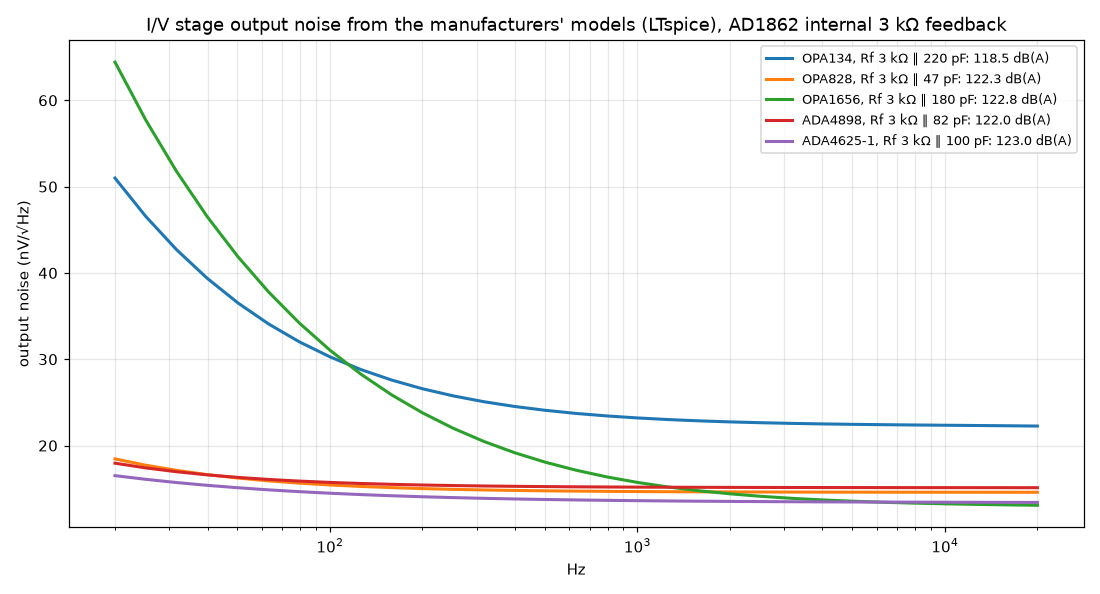
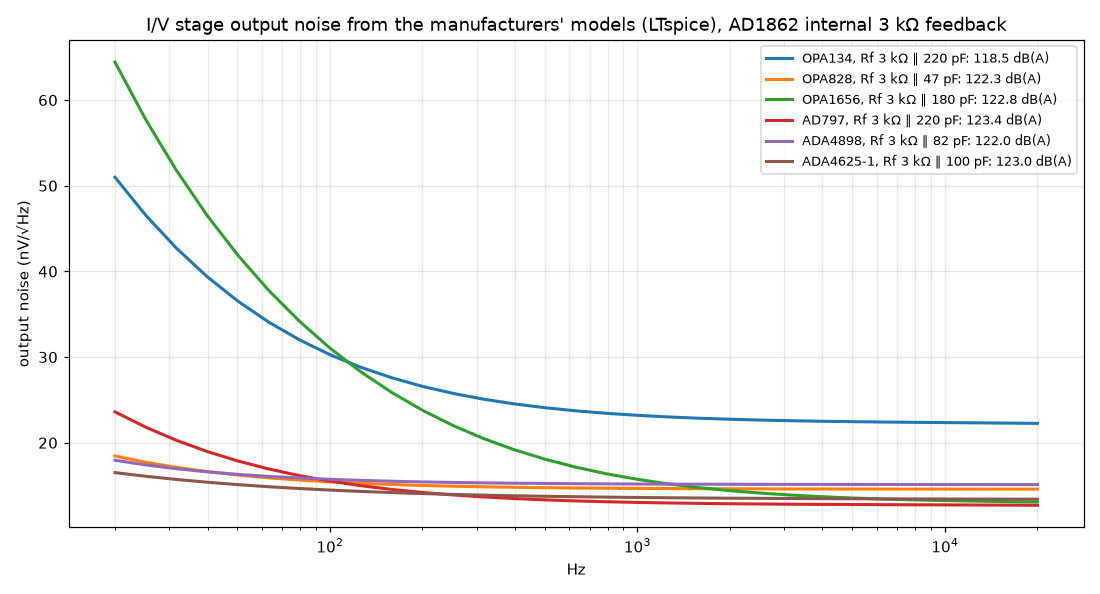
Add the AD797's own model to the LTspice op-amp results
ADI's 1992 AD797 macro model replaces the ADA4898 stand-in: it slews
with 47 pF like the OPA134, and with 220 pF its phase margin drops to
43-44 degrees while the error stays near -100 dBFS. Both languages.

diff --git a/ru/index.html b/ru/index.html
@@ -205,7 +205,7 @@ footer { margin-top: 56px; padding-top: 16px; border-top: 1px solid var(--rule);
       <p class="src">моделирование (2D-решатель поля + ngspice) · без новых деталей</p></div></li>
     <li><div><div class="t">Последние 4 дБ шума: OPA828 со встроенным резистором обратной связи AD1862 на 3 кОм</div>
       <p>Соедините вывод 10 AD1862 (RF, сейчас не подключён) с выходом ОУ и уберите R8 и R9. Так OPA828 даёт 122 дБ(A) против 116 дБ(A) у OPA134 с 1,4 кОм, а выход становится 2,1 В скз. Он выпускается только в SOIC или VSSOP, поэтому в DIP-панельку нужен переходник. Альтернативы: ADA4625-1 (тоже SOIC), который по модели ADI не уступает OPA828; OPA1611 со 150 пФ для минимального шума; или OPA627 с 82 пФ, который встаёт прямо в панельку. Оставьте по одному одиночному ОУ на канал и 47 пФ, если ОУ не упирается в скорость нарастания.</p>
-      <p class="src">моделирование (ngspice и LTspice; модели производителей для восьми ОУ)</p></div></li>
+      <p class="src">моделирование (ngspice и LTspice; модели производителей для девяти ОУ)</p></div></li>
     <li><div><div class="t">Перетактировать LE у ЦАП от малоджиттерного аудиогенератора</div>
       <p>Подайте аудиогенератор 45,1584 или 49,152 МГц (или вдвое ниже) на GPIO20 (GPIN0, до 50 МГц) и синхронизируйте от него PIO: либо clk_sys от этого входа, либо PIO ждёт его фронтов. Поставьте рядом с ЦАП сдвоенный D-триггер (класса 74LVC74), тактируемый тем же генератором, чтобы каждый фронт LE брался от генератора, а не от PLL и выходов Pico.</p>
       <p>Каждая половина триггера ведёт свой ЦАП по короткой трассе, что заодно убирает Т-разветвление. При джиттере генератора около 2 пс ошибка момента выборки остаётся ниже −135 dBFS даже для полномасштабного тона 20 кГц.</p>
@@ -238,7 +238,7 @@ footer { margin-top: 56px; padding-top: 16px; border-top: 1px solid var(--rule);
       <li><b>Схемотехническая модель:</b> модели CLK и LE на линиях передачи в ngspice для перебора параметров; модель PDN с измеренными расстояниями от конденсаторов до выводов.</li>
       <li><b>Тактирование выборок:</b> модель делителя PIO RP2040 (даташит §3.5.5) и ограничений PLL (§2.18) со спектром выхода ЦАП для каждой схемы тактирования.</li>
       <li><b>Каскад I/V и ОУ:</b> модели каскада AD1862 + ОУ в ngspice (устойчивость, шум, ограничение скорости нарастания на ступеньках) для восьми ОУ, с перекрёстной проверкой собственными PSpice-моделями TI для шести из них.</li>
-      <li><b>LTspice:</b> LTspice 17 в пакетном режиме для моделей производителей, с которыми не справляется ngspice: OPA1656 от TI, ADA4898 и ADA4625-1 от ADI, шум ОУ из самих моделей и модели стабилизаторов ADI (LT3045, LT3094, LT1963A, LT1964, LT3015, LT317A). На тех же схемах он повторяет результаты ngspice по запасу по фазе, ступеньке и ограничению скорости нарастания с точностью до 0,6 дБ.</li>
+      <li><b>LTspice:</b> LTspice 17 в пакетном режиме для моделей производителей, с которыми не справляется ngspice: OPA1656 от TI, AD797, ADA4898 и ADA4625-1 от ADI, шум ОУ из самих моделей и модели стабилизаторов ADI (LT3045, LT3094, LT1963A, LT1964, LT3015, LT317A). На тех же схемах он повторяет результаты ngspice по запасу по фазе, ступеньке и ограничению скорости нарастания с точностью до 0,6 дБ.</li>
       <li><b>Разводка шины:</b> 2D-решатель поля для связанных трасс (одиночная трасса: 67,9 Ом, ε<sub>eff</sub> 3,13) и модели связанных линий и топологий в ngspice, сверенные с полноволновым расчётом платы.</li>
       <li><b>Падение напряжения на земле:</b> резистивный решатель на растеризованной заливке In1 + In2, связанной через каждый земляной via и ствол вывода.</li>
     </ul>
@@ -437,31 +437,33 @@ footer { margin-top: 56px; padding-top: 16px; border-top: 1px solid var(--rule);
       <tr><td>OPA1656</td><td>КМОП</td><td class="n">180 пФ</td><td class="n">119,4 / 122,0</td><td class="n">−106 → −120</td><td class="n">−97 → −117 (LTspice)</td><td>нет</td></tr>
       <tr><td>LM4562</td><td>биполярный</td><td class="n">220 пФ</td><td class="n">120,9 / 122,9</td><td class="n">−100 → −117</td><td class="n">модели TI нет</td><td>только сдвоенный</td></tr>
       <tr class="good"><td>OPA1611 / OPA1612</td><td>биполярный</td><td class="n">150 пФ</td><td class="n">122,2 / 123,7</td><td class="n">−108 → −121</td><td class="n">−137 → −123</td><td>нет (SOIC)</td></tr>
-      <tr><td>AD797</td><td>биполярный</td><td class="n">220 пФ</td><td class="n">122,1 / 123,5</td><td class="n">−103 → −120</td><td class="n">ADA4898: −119 → −108</td><td>да</td></tr>
+      <tr><td>AD797</td><td>биполярный</td><td class="n">220 пФ</td><td class="n">122,1 / 123,5</td><td class="n">−103 → −120</td><td class="n">−91 → −104 (LTspice)</td><td>да</td></tr>
     </tbody>
   </table></div>
   <p class="col note">С/Ш — со взвешиванием A относительно полной шкалы; у самого AD1862 около 120 дБ. Ошибка — в dBFS для тона −1 dBFS. Значения модели TI ниже примерно −120 dBFS — это предел метода и означают «измеримого ограничения нет». Корпуса указаны по каталогам производителей; проверьте наличие перед заказом.</p>
-  <p class="col"><b>Рекомендация: OPA828 со встроенным резистором 3 кОм.</b> Это единственный ОУ, который обе модели показывают чистым с текущими 47 пФ. Он даёт 122 дБ(A), а входной ток его полевого входа пренебрежимо мал. OPA1611 примерно на 1,5 дБ тише, но требует 150 пФ. OPA627 встаёт прямо в DIP-панельку ценой примерно 1,5 дБ шума. OPA134 остаётся пригодным с 220 пФ. ADA4625-1 — равноценная замена OPA828 (см. LTspice ниже). Я бы не брал OPA1641 (упирается в скорость нарастания, как OPA134), LM4562 (сдвоенный), OPA1656 (упирается в скорость нарастания при 47 пФ и сильнее всех искажает даже со 180 пФ) и AD797 (нет модели производителя для проверки; его замена в модели, ADA4898, искажает больше полевых ОУ).</p>
+  <p class="col"><b>Рекомендация: OPA828 со встроенным резистором 3 кОм.</b> Это единственный ОУ, который обе модели показывают чистым с текущими 47 пФ. Он даёт 122 дБ(A), а входной ток его полевого входа пренебрежимо мал. OPA1611 примерно на 1,5 дБ тише, но требует 150 пФ. OPA627 встаёт прямо в DIP-панельку ценой примерно 1,5 дБ шума. OPA134 остаётся пригодным с 220 пФ. ADA4625-1 — равноценная замена OPA828 (см. LTspice ниже). Я бы не брал OPA1641 (упирается в скорость нарастания, как OPA134), LM4562 (сдвоенный), OPA1656 (упирается в скорость нарастания при 47 пФ и сильнее всех искажает даже со 180 пФ) и AD797 (собственная модель ADI при 47 пФ упирается в скорость нарастания, как OPA134; со 220 пФ запас по фазе падает до 43°, а ошибка остаётся около −100 dBFS).</p>
   <h3>Модели производителей в LTspice</h3>
-  <p class="col">LTspice запускает три модели, с которыми не справился ngspice: OPA1656 от TI, которая там так и не сошлась; ADA4898 от ADI — самый близкий к AD797 ОУ, у которого есть модель (биполярный, 0,9 нВ/√Гц, 65 МГц, устойчив при единичном усилении); и ADA4625-1 от ADI, малошумящий ОУ с полевым входом. OPA134 и OPA828 повторяют расчёты ngspice для проверки: запас по фазе, ступенька в суммирующем узле и ошибка от скорости нарастания совпадают с точностью до 0,6 дБ там, где ошибка выше −110 dBFS. LTspice также использует собственный шум моделей, чего не мог ngspice. Он совпадает с оценками по даташитам выше с точностью до 1 дБ.</p>
+  <p class="col">LTspice запускает четыре модели, с которыми не справился ngspice: OPA1656 от TI, которая там так и не сошлась; собственную модель AD797 от ADI — макромодель 1992 года, которой нет в LTspice (analog.com отдаёт её после принятия лицензии); ADA4898 от ADI — более новый биполярный ОУ того же класса (0,9 нВ/√Гц, 65 МГц, устойчив при единичном усилении); и ADA4625-1 от ADI, малошумящий ОУ с полевым входом. OPA134 и OPA828 повторяют расчёты ngspice для проверки: запас по фазе, ступенька в суммирующем узле и ошибка от скорости нарастания совпадают с точностью до 0,6 дБ там, где ошибка выше −110 dBFS. LTspice также использует собственный шум моделей, чего не мог ngspice. Он совпадает с оценками по даташитам выше с точностью до 1 дБ.</p>
   <div class="tablewrap"><table>
     <thead><tr><th>ОУ</th><th>Модель</th><th>C<sub>f</sub> по расчёту</th><th>С/Ш, 1,4 / 3 кОм</th><th>Суммирующий узел (мВ)</th><th>20 кГц, 1,4 кОм</th><th>20 кГц, 3 кОм</th><th>Запас по фазе</th></tr></thead>
     <tbody>
       <tr><td>OPA134</td><td>TI, JFET</td><td class="n">220 пФ</td><td class="n">115,5 / 118,5</td><td class="n">509 → 209</td><td class="n">−107 → −121</td><td class="n">−106 → −115</td><td class="n">52–70°</td></tr>
       <tr class="good"><td>OPA828</td><td>TI, JFET</td><td class="n">47 пФ</td><td class="n">119,8 / 122,3</td><td class="n">104</td><td class="n">−136</td><td class="n">−125</td><td class="n">72–75°</td></tr>
       <tr><td>OPA1656</td><td>TI, КМОП</td><td class="n">180 пФ</td><td class="n">120,4 / 122,8</td><td class="n">291 → 64</td><td class="n">−97 → −117</td><td class="n">−88 → −97</td><td class="n">50–55°</td></tr>
-      <tr><td>ADA4898 (вместо AD797)</td><td>ADI, биполярный</td><td class="n">82 пФ</td><td class="n">120,8 / 122,0</td><td class="n">69 → 48</td><td class="n">−119 → −108</td><td class="n">−106 → −103</td><td class="n">60–63°</td></tr>
+      <tr><td>AD797*</td><td>ADI 1992, биполярный</td><td class="n">220 пФ</td><td class="n">122,0 / 123,4</td><td class="n">258 → 20</td><td class="n">−91 → −104</td><td class="n">−79 → −99</td><td class="n">43–49°</td></tr>
+      <tr><td>ADA4898</td><td>ADI, биполярный</td><td class="n">82 пФ</td><td class="n">120,8 / 122,0</td><td class="n">69 → 48</td><td class="n">−119 → −108</td><td class="n">−106 → −103</td><td class="n">60–63°</td></tr>
       <tr class="good"><td>ADA4625‑1</td><td>ADI, JFET</td><td class="n">100 пФ</td><td class="n">120,7 / 123,0</td><td class="n">260 → 159</td><td class="n">−136 → −126</td><td class="n">−126 → −121</td><td class="n">58–66°</td></tr>
     </tbody>
   </table></div>
-  <p class="col note">Пары значений: 47 пФ → C<sub>f</sub> по расчёту. С/Ш — в дБ(A) относительно полной шкалы, ошибка от скорости нарастания — в dBFS для тона −1 dBFS без передискретизации (метод масштабирования). Для сравнения: собственный КНИ+Ш AD1862 на полной шкале составляет −94…−98 дБ.</p>
+  <p class="col note">Пары значений: 47 пФ → C<sub>f</sub> по расчёту. С/Ш — в дБ(A) относительно полной шкалы, ошибка от скорости нарастания — в dBFS для тона −1 dBFS без передискретизации (метод масштабирования). Для сравнения: собственный КНИ+Ш AD1862 на полной шкале составляет −94…−98 дБ. * Модель AD797 — 1992 года: она воспроизводит скорость нарастания, полосу, фазу и шум, но входной и выходной каскады в ней поведенческие, поэтому её цифры искажений — ориентировочные.</p>
   <figure>
     <div class="plate narrow"><img src="../img/lt_iv_noise.png" alt="Спектральная плотность шума на выходе каскада I/V для пяти ОУ со встроенным резистором AD1862 на 3 кОм"></div>
-    <figcaption><b>Шум на выходе I/V по моделям</b>, со встроенным резистором 3 кОм. Выше 1 кГц уровень шума задают резисторы, поэтому ADA4898 с 0,9 нВ/√Гц ничего не выигрывает у полевых ОУ. У КМОП-входа OPA1656 больше всего шума 1/f.</figcaption>
+    <figcaption><b>Шум на выходе I/V по моделям</b>, со встроенным резистором 3 кОм. Выше 1 кГц уровень шума задают резисторы, поэтому AD797 с 0,9 нВ/√Гц опережает полевые ОУ всего на 0,4–1,1 дБ, а ADA4898 не опережает вовсе. У КМОП-входа OPA1656 больше всего шума 1/f.</figcaption>
   </figure>
   <ul class="tight col">
     <li><b>OPA1656:</b> при 47 пФ упирается в скорость нарастания (суммирующий узел 291 мВ, −97 dBFS на 20 кГц) и требует 180 пФ. С 3 кОм остаётся около −97 dBFS даже так — худший из пяти.</li>
-    <li><b>ADA4898 (вместо AD797):</b> самый малый размах в суммирующем узле (48–78 мВ) и 120,8/122,0 дБ(A) — всего примерно на 1 дБ лучше OPA828, потому что шум определяют сопротивление ЦАП 2,1 кОм и R<sub>f</sub>. Его искажения растут с C<sub>f</sub> и с 3 кОм, от −120 до −103 dBFS. Это всё ещё ниже собственных искажений AD1862, но заметно хуже полевых ОУ.</li>
+    <li><b>AD797 (модель ADI 1992 года):</b> самый тихий здесь, 122,0/123,4 дБ(A): на 1,3–2,2 дБ лучше ADA4625-1 и OPA828 с 1,4 кОм, но всего на 0,4–1,1 дБ с 3 кОм. При 20 В/мкс он с 47 пФ упирается в скорость нарастания, как OPA134: суммирующий узел 258 мВ, −91 dBFS на 20 кГц, −79 dBFS с 3 кОм. 220 пФ убирают ограничение скорости (суммирующий узел 20 мВ), но приближают каскад к единичному шумовому усилению, где у AD797 лишь 43–44° запаса по фазе, и ошибка остаётся на уровне −99…−104 dBFS и на 10, и на 20 кГц. Это согласуется с его репутацией капризного ОУ в этой схеме.</li>
+    <li><b>ADA4898:</b> самый малый размах в суммирующем узле (48–78 мВ) и 120,8/122,0 дБ(A) — всего примерно на 1 дБ лучше OPA828, потому что шум определяют сопротивление ЦАП 2,1 кОм и R<sub>f</sub>. Как замена AD797 в модели он оказался слишком оптимистичным: при 55 В/мкс он не упирается в скорость нарастания с 47 пФ, а AD797 упирается. Его искажения растут с C<sub>f</sub> и с 3 кОм, от −120 до −103 dBFS. Это всё ещё ниже собственных искажений AD1862, но заметно хуже полевых ОУ.</li>
     <li><b>ADA4625-1:</b> запас по фазе 58–66°, 123,0 дБ(A) с 3 кОм и от −126 до −136 dBFS с уже стоящими 47 пФ. Не уступает OPA828 и тоже выпускается только в SOIC (или LFCSP).</li>
     <li><b>Больший C<sub>f</sub> нужен только тем ОУ, которые упираются в скорость нарастания.</b> У OPA828, ADA4898 и ADA4625-1 с 47 пФ результат лучше, чем со значением по скорости нарастания — вероятно, потому что с большим C<sub>f</sub> выходному каскаду приходится перемещать больший заряд на каждой ступеньке.</li>
   </ul>
@@ -561,6 +563,7 @@ footer { margin-top: 56px; padding-top: 16px; border-top: 1px solid var(--rule);
     <li>Модель тактирования точно воспроизводит шаблон делителя. Случайный джиттер PLL и выходов RP2040 Raspberry Pi не указывает; случаи 30 пс и 2 пс — допущения, а график показывает цену любой величины.</li>
     <li><b>Исправление от 30 окт 2026:</b> в прежней версии страницы наводка CLK→LE была указана как 51–88 мВ, а заряд в суммирующий узел — как 0,5–0,8 фКл. Эти значения включали паразитную низкочастотную составляющую, оставшуюся после продления расчётных сигналов. После её удаления (наводка на неактивную линию должна исчезать на постоянном токе) они равны 25–73 мВ и 0,2–0,6 фКл.</li>
     <li>Результаты по каскаду I/V получены на моделях ОУ по даташитам и на собственных PSpice-моделях TI для шести ОУ. Модели расходятся в том, насколько ограничение скорости нарастания искажает сигнал: модели TI линейны вплоть до жёсткого предела, обобщённая модель сжимает сигнал постепенно. Поэтому цифры искажений каскада I/V — это диапазон. Обе модели согласны, какие ОУ упираются в скорость нарастания и что 220 пФ это устраняют. Выходная ёмкость AD1862 (20 пФ) и время переключения (50 нс; проверено от 20 до 150 нс) приняты допущениями. Модель OPA1656 не запускается в ngspice, а шумовые модели TI там не работают, поэтому шум взят по даташитам.</li>
+    <li>Результат по AD797 получен на макромодели ADI 1992 года (лицензия принята на analog.com; сам файл не распространяется). Её сигнал ЦАП начинается с 0 А, потому что при некоторых входных токах модель не находит рабочую точку.</li>
     <li>LTspice запускает и модель OPA1656, и шумовые модели TI; шум по моделям совпадает с оценками по даташитам с точностью до 1 дБ.</li>
     <li>Результаты по стабилизаторам получены на моделях ADI в LTspice с принятыми проводами (20 мОм + 300 нГн), нагрузкой 25 мА и входом 15 В с пульсациями 100 мВ размах. В модели LT317A шума почти нет, поэтому взято значение из даташита. Подавление пульсаций выше примерно 100 дБ — цифра моделей; на реальной разводке его съедают обратные токи по земле. Подавление пульсаций питания у AD1862 неизвестно, отсюда столбец «понадобилось бы».</li>
     <li>Полноволновая модель — вырезка 43 × 65 мм. Модуль Pico и правый край платы в неё не входят.</li>

diff --git a/index.html b/index.html
@@ -205,7 +205,7 @@ footer { margin-top: 56px; padding-top: 16px; border-top: 1px solid var(--rule);
       <p class="src">simulated (2D field solver + ngspice) · no new parts</p></div></li>
     <li><div><div class="t">For the last 4 dB of noise: OPA828 with the AD1862's internal 3 kΩ feedback resistor</div>
       <p>Connect AD1862 pin 10 (RF, unconnected now) to the op-amp output and remove R8 and R9. The OPA828 reaches 122 dB(A) this way, against 116 dB(A) for the OPA134 with 1.4 kΩ, and the output becomes 2.1 Vrms. It comes only in SOIC or VSSOP, so it needs an adapter in the DIP socket. Alternatives: the ADA4625-1 (also SOIC), which ADI's model shows as good as the OPA828; OPA1611 with 150 pF for the lowest noise; or OPA627 with 82 pF to fit the socket. Keep one single op-amp per channel and keep 47 pF unless the part slews.</p>
-      <p class="src">simulated (ngspice and LTspice; manufacturers' models for eight parts)</p></div></li>
+      <p class="src">simulated (ngspice and LTspice; manufacturers' models for nine parts)</p></div></li>
     <li><div><div class="t">Re-time LE at the DACs from a low-jitter audio oscillator</div>
       <p>Feed a 45.1584 or 49.152 MHz audio oscillator (or half that) into GPIO20 (GPIN0, up to 50 MHz) and pace the PIO from it: either run clk_sys from it, or have the PIO wait on its edges. Put a dual D flip-flop (74LVC74 class) beside the DACs, clocked by the same oscillator, so each LE edge comes from the oscillator rather than from the Pico's PLL and output pins.</p>
       <p>Each half of the flip-flop drives one DAC over a short trace, which also removes the T-split. Assuming about 2 ps of oscillator jitter, the sample-time error stays below −135 dBFS even for a full-scale 20 kHz tone.</p>
@@ -238,7 +238,7 @@ footer { margin-top: 56px; padding-top: 16px; border-top: 1px solid var(--rule);
       <li><b>Circuit:</b> ngspice transmission-line models of the CLK and LE trees for sweeps; a PDN model with the measured cap-to-pin distances.</li>
       <li><b>Sample clock:</b> a timing model of the RP2040 PIO divider (datasheet §3.5.5) and PLL limits (§2.18), with the NOS output spectrum for each clocking scheme.</li>
       <li><b>I/V stage and op-amps:</b> ngspice models of the AD1862 + op-amp I/V stage (stability, noise, slewing on NOS steps) for eight op-amps, cross-checked with TI's own PSpice models for six of them.</li>
-      <li><b>LTspice:</b> LTspice 17 in batch mode, for manufacturers' models that ngspice cannot use: TI's OPA1656, ADI's ADA4898 and ADA4625-1, op-amp noise taken from the models themselves, and ADI's regulator models (LT3045, LT3094, LT1963A, LT1964, LT3015, LT317A). On the same circuits it reproduces the ngspice phase margin, step and slewing results to within 0.6 dB.</li>
+      <li><b>LTspice:</b> LTspice 17 in batch mode, for manufacturers' models that ngspice cannot use: TI's OPA1656, ADI's AD797, ADA4898 and ADA4625-1, op-amp noise taken from the models themselves, and ADI's regulator models (LT3045, LT3094, LT1963A, LT1964, LT3015, LT317A). On the same circuits it reproduces the ngspice phase margin, step and slewing results to within 0.6 dB.</li>
       <li><b>Bus routing:</b> a 2D field solver for coupled traces (single trace: 67.9 Ω, ε<sub>eff</sub> 3.13) feeding ngspice coupled-line and topology models, checked against the full-board run.</li>
       <li><b>Ground drop:</b> a resistive solver on the rasterised In1 + In2 fill, tied by every GND via and pin barrel.</li>
     </ul>
@@ -437,31 +437,33 @@ footer { margin-top: 56px; padding-top: 16px; border-top: 1px solid var(--rule);
       <tr><td>OPA1656</td><td>CMOS</td><td class="n">180 pF</td><td class="n">119.4 / 122.0</td><td class="n">−106 → −120</td><td class="n">−97 → −117 (LTspice)</td><td>no</td></tr>
       <tr><td>LM4562</td><td>bipolar</td><td class="n">220 pF</td><td class="n">120.9 / 122.9</td><td class="n">−100 → −117</td><td class="n">no TI model</td><td>dual only</td></tr>
       <tr class="good"><td>OPA1611 / OPA1612</td><td>bipolar</td><td class="n">150 pF</td><td class="n">122.2 / 123.7</td><td class="n">−108 → −121</td><td class="n">−137 → −123</td><td>no (SOIC)</td></tr>
-      <tr><td>AD797</td><td>bipolar</td><td class="n">220 pF</td><td class="n">122.1 / 123.5</td><td class="n">−103 → −120</td><td class="n">ADA4898: −119 → −108</td><td>yes</td></tr>
+      <tr><td>AD797</td><td>bipolar</td><td class="n">220 pF</td><td class="n">122.1 / 123.5</td><td class="n">−103 → −120</td><td class="n">−91 → −104 (LTspice)</td><td>yes</td></tr>
     </tbody>
   </table></div>
   <p class="col note">S/N is A-weighted against full scale; the AD1862 itself is about 120 dB. Slewing figures are dBFS for a −1 dBFS tone. TI-model values below about −120 dBFS are at the method's floor and mean "no measurable slewing". Packages are from the vendors' listings; check stock before ordering.</p>
-  <p class="col"><b>Recommendation: the OPA828 with the internal 3 kΩ resistor.</b> It is the only part that both models show clean with the existing 47 pF, it reaches 122 dB(A), and its JFET input has negligible bias current. The OPA1611 is about 1.5 dB quieter but needs 150 pF. The OPA627 fits the DIP socket directly at about 1.5 dB more noise. The OPA134 stays usable with 220 pF. The ADA4625-1 is an equal alternative to the OPA828 (see LTspice below). I would skip the OPA1641 (slews like the OPA134), the LM4562 (a dual), the OPA1656 (slews at 47 pF and distorts most even with 180 pF) and the AD797 (no maker's model to check; its stand-in, the ADA4898, distorts more than the JFET parts).</p>
+  <p class="col"><b>Recommendation: the OPA828 with the internal 3 kΩ resistor.</b> It is the only part that both models show clean with the existing 47 pF, it reaches 122 dB(A), and its JFET input has negligible bias current. The OPA1611 is about 1.5 dB quieter but needs 150 pF. The OPA627 fits the DIP socket directly at about 1.5 dB more noise. The OPA134 stays usable with 220 pF. The ADA4625-1 is an equal alternative to the OPA828 (see LTspice below). I would skip the OPA1641 (slews like the OPA134), the LM4562 (a dual), the OPA1656 (slews at 47 pF and distorts most even with 180 pF) and the AD797 (ADI's own model slews with 47 pF like the OPA134; with 220 pF its phase margin drops to 43° and the error stays near −100 dBFS).</p>
   <h3>Manufacturers' models in LTspice</h3>
-  <p class="col">LTspice runs three models ngspice could not: TI's OPA1656, which never converged there; ADI's ADA4898, the closest part with a model to the AD797 (0.9 nV/√Hz bipolar, 65 MHz, unity-gain stable); and ADI's ADA4625-1, a low-noise JFET part. OPA134 and OPA828 repeat the ngspice runs as a check: phase margin, summing-node step and slewing agree to within 0.6 dB where the error is above −110 dBFS. LTspice also uses the models' own noise, which ngspice could not. It agrees with the datasheet-based figures above to within 1 dB.</p>
+  <p class="col">LTspice runs four models ngspice could not: TI's OPA1656, which never converged there; ADI's own AD797 model, a 1992 macro model that LTspice does not ship (analog.com offers it behind a license page); ADI's ADA4898, a newer bipolar part of the same class (0.9 nV/√Hz, 65 MHz, unity-gain stable); and ADI's ADA4625-1, a low-noise JFET part. OPA134 and OPA828 repeat the ngspice runs as a check: phase margin, summing-node step and slewing agree to within 0.6 dB where the error is above −110 dBFS. LTspice also uses the models' own noise, which ngspice could not. It agrees with the datasheet-based figures above to within 1 dB.</p>
   <div class="tablewrap"><table>
     <thead><tr><th>Op-amp</th><th>Model</th><th>C<sub>f</sub> sized</th><th>S/N, 1.4 / 3 kΩ</th><th>Summing node (mV)</th><th>20 kHz, 1.4 kΩ</th><th>20 kHz, 3 kΩ</th><th>Phase margin</th></tr></thead>
     <tbody>
       <tr><td>OPA134</td><td>TI, JFET</td><td class="n">220 pF</td><td class="n">115.5 / 118.5</td><td class="n">509 → 209</td><td class="n">−107 → −121</td><td class="n">−106 → −115</td><td class="n">52–70°</td></tr>
       <tr class="good"><td>OPA828</td><td>TI, JFET</td><td class="n">47 pF</td><td class="n">119.8 / 122.3</td><td class="n">104</td><td class="n">−136</td><td class="n">−125</td><td class="n">72–75°</td></tr>
       <tr><td>OPA1656</td><td>TI, CMOS</td><td class="n">180 pF</td><td class="n">120.4 / 122.8</td><td class="n">291 → 64</td><td class="n">−97 → −117</td><td class="n">−88 → −97</td><td class="n">50–55°</td></tr>
-      <tr><td>ADA4898 (for the AD797)</td><td>ADI, bipolar</td><td class="n">82 pF</td><td class="n">120.8 / 122.0</td><td class="n">69 → 48</td><td class="n">−119 → −108</td><td class="n">−106 → −103</td><td class="n">60–63°</td></tr>
+      <tr><td>AD797*</td><td>ADI 1992, bipolar</td><td class="n">220 pF</td><td class="n">122.0 / 123.4</td><td class="n">258 → 20</td><td class="n">−91 → −104</td><td class="n">−79 → −99</td><td class="n">43–49°</td></tr>
+      <tr><td>ADA4898</td><td>ADI, bipolar</td><td class="n">82 pF</td><td class="n">120.8 / 122.0</td><td class="n">69 → 48</td><td class="n">−119 → −108</td><td class="n">−106 → −103</td><td class="n">60–63°</td></tr>
       <tr class="good"><td>ADA4625‑1</td><td>ADI, JFET</td><td class="n">100 pF</td><td class="n">120.7 / 123.0</td><td class="n">260 → 159</td><td class="n">−136 → −126</td><td class="n">−126 → −121</td><td class="n">58–66°</td></tr>
     </tbody>
   </table></div>
-  <p class="col note">Pairs read 47 pF → C<sub>f</sub> sized. S/N in dB(A) against full scale, slewing error in dBFS for a −1 dBFS NOS tone (the scaled method). For scale, the AD1862's own THD+N at full scale is −94 to −98 dB.</p>
+  <p class="col note">Pairs read 47 pF → C<sub>f</sub> sized. S/N in dB(A) against full scale, slewing error in dBFS for a −1 dBFS NOS tone (the scaled method). For scale, the AD1862's own THD+N at full scale is −94 to −98 dB. * The AD797 model dates from 1992: it reproduces slew rate, bandwidth, phase and noise, but its input and output stages are behavioural, so read its distortion figures as indicative.</p>
   <figure>
     <div class="plate narrow"><img src="img/lt_iv_noise.png" alt="Output noise density of five op-amps in the I/V stage with the AD1862's internal 3 kilohm resistor"></div>
-    <figcaption><b>I/V output noise from the models</b>, with the internal 3 kΩ resistor. Above 1 kHz the resistors set the floor, so the 0.9 nV/√Hz ADA4898 gains nothing over the JFET parts. The OPA1656's CMOS input has the most 1/f noise.</figcaption>
+    <figcaption><b>I/V output noise from the models</b>, with the internal 3 kΩ resistor. Above 1 kHz the resistors set the floor, so the 0.9 nV/√Hz AD797 is only 0.4–1.1 dB ahead of the JFET parts and the ADA4898 not at all. The OPA1656's CMOS input has the most 1/f noise.</figcaption>
   </figure>
   <ul class="tight col">
     <li><b>OPA1656:</b> slews with 47 pF (summing node 291 mV, −97 dBFS at 20 kHz) and needs 180 pF. With 3 kΩ it stays near −97 dBFS even then, the worst of the five.</li>
-    <li><b>ADA4898 (for the AD797):</b> the smallest summing-node swing (48–78 mV) and 120.8/122.0 dB(A), only about 1 dB better than the OPA828, because the 2.1 kΩ DAC resistance and R<sub>f</sub> dominate the noise. Its distortion grows with C<sub>f</sub> and with 3 kΩ, from −120 to −103 dBFS. That is still below the AD1862's own distortion, but well behind the JFET parts.</li>
+    <li><b>AD797 (ADI's 1992 model):</b> the quietest here, 122.0/123.4 dB(A): 1.3–2.2 dB ahead of the ADA4625-1 and OPA828 with 1.4 kΩ, but only 0.4–1.1 dB with 3 kΩ. At 20 V/µs it slews with 47 pF like the OPA134: summing node 258 mV, −91 dBFS at 20 kHz, −79 dBFS with 3 kΩ. 220 pF stops the slewing (summing node 20 mV), but pushes the stage toward unity noise gain, where the AD797 has only 43–44° of phase margin, and the error stays at −99 to −104 dBFS at both 10 and 20 kHz. That fits its reputation for being touchy in this circuit.</li>
+    <li><b>ADA4898:</b> the smallest summing-node swing (48–78 mV) and 120.8/122.0 dB(A), only about 1 dB better than the OPA828, because the 2.1 kΩ DAC resistance and R<sub>f</sub> dominate the noise. As a stand-in for the AD797 it was too kind: at 55 V/µs it does not slew with 47 pF, where the AD797 does. Its distortion grows with C<sub>f</sub> and with 3 kΩ, from −120 to −103 dBFS. That is still below the AD1862's own distortion, but well behind the JFET parts.</li>
     <li><b>ADA4625-1:</b> 58–66° phase margin, 123.0 dB(A) with 3 kΩ, and −126 to −136 dBFS with the 47 pF already fitted. It matches the OPA828 and is also only in SOIC (or LFCSP).</li>
     <li><b>Only parts that slew need a bigger C<sub>f</sub>.</b> For the OPA828, ADA4898 and ADA4625-1, 47 pF measures better than the slew-sized value, probably because a larger C<sub>f</sub> makes the output stage move more charge on every step.</li>
   </ul>
@@ -561,6 +563,7 @@ footer { margin-top: 56px; padding-top: 16px; border-top: 1px solid var(--rule);
     <li>The clock model reproduces the divider's pattern exactly. Raspberry Pi does not specify random jitter from the RP2040's PLL and output pins; the 30 ps and 2 ps cases are assumptions, and the chart shows the cost of any value.</li>
     <li><b>Correction, 30 Oct 2026:</b> an earlier version of this page gave CLK→LE crosstalk as 51–88 mV and summing-node charge as 0.5–0.8 fC. Those figures included a spurious low-frequency term left over from extending the simulated waveforms. With it removed (coupling into a quiet line must vanish at DC) they are 25–73 mV and 0.2–0.6 fC.</li>
     <li>The I/V results use datasheet-based op-amp models plus TI's own PSpice models for six parts. The two disagree on how much slewing distorts: TI's models stay linear up to a hard slew limit, the generic model compresses gradually. So the I/V distortion figures are a range. Both agree on which parts slew and that 220 pF fixes it. The AD1862's output capacitance (20 pF) and switching time (50 ns; checked from 20 to 150 ns) are assumed. The OPA1656 model would not run in ngspice, and TI's noise models don't work there, so noise uses datasheet figures.</li>
+    <li>The AD797 result uses ADI's 1992 macro model (license accepted on analog.com; the file is not redistributed). Its NOS waveform starts from 0 A, because the model finds no operating point at some input currents.</li>
     <li>LTspice runs both the OPA1656 model and the TI noise models; its model-based noise agrees with the datasheet figures to within 1 dB.</li>
     <li>Regulator results use ADI's LTspice models with assumed wiring (20 mΩ + 300 nH), 25 mA load and 15 V input with 100 mV p-p ripple. The LT317A model has almost no noise, so its data-sheet figure is used. Ripple rejection beyond about 100 dB is the models' figure; real layouts lose it to ground returns. The AD1862's supply rejection is unknown, hence the "would need" column.</li>
     <li>The full-wave model is a 43 × 65 mm crop. The Pico module and the far right of the board are outside it.</li>
